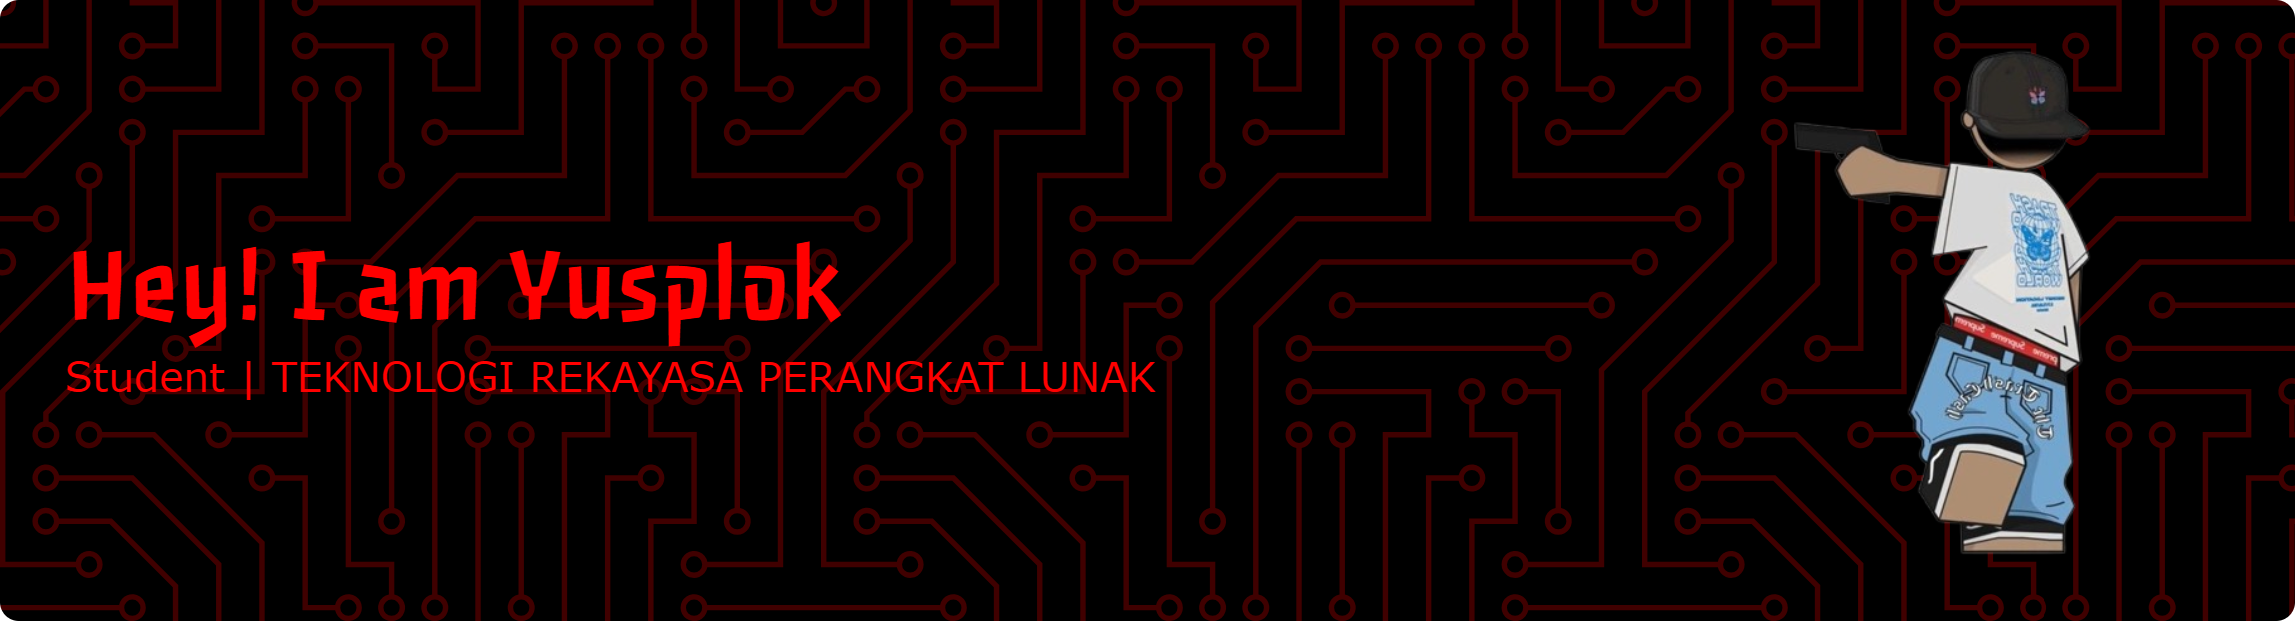
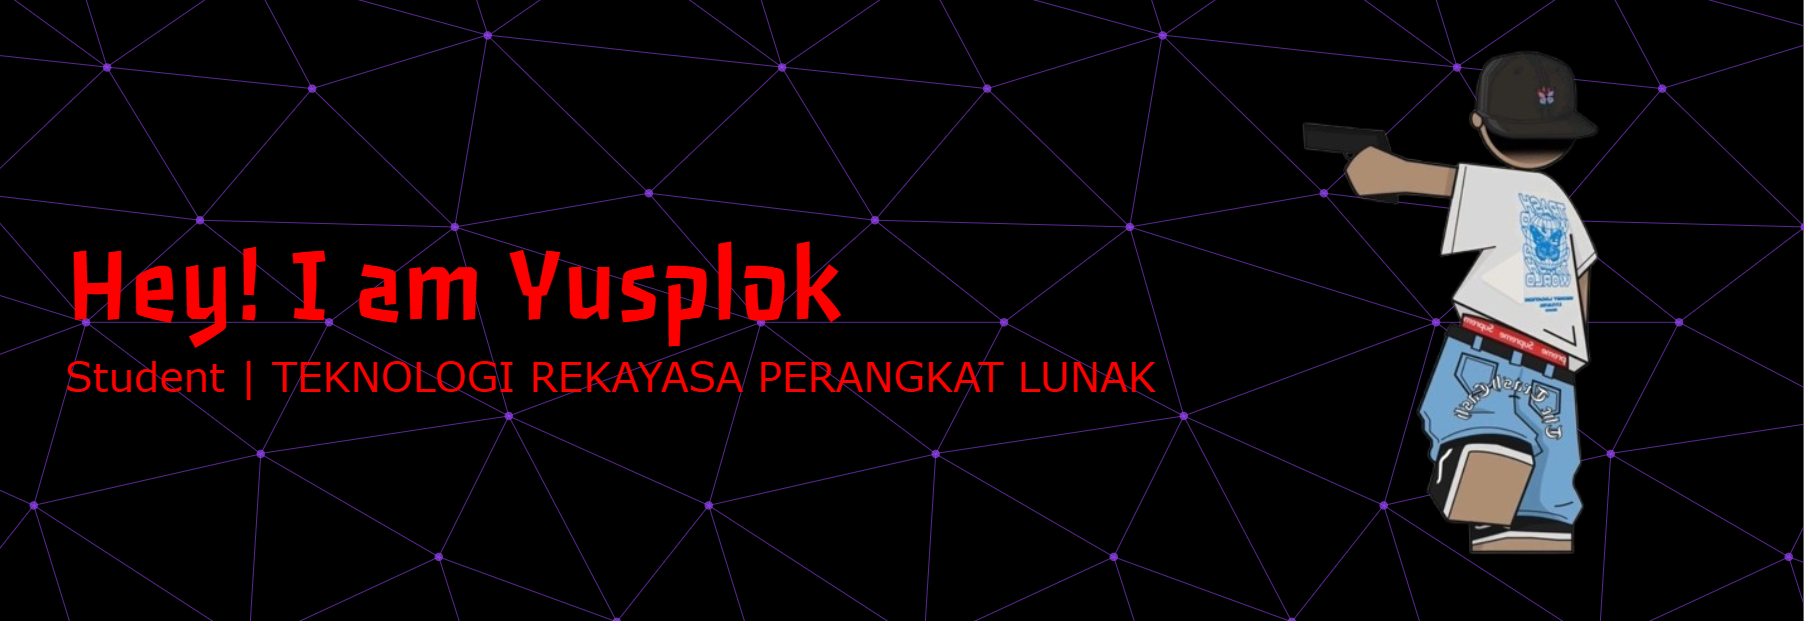
revisi layout

Changed region(s): [[0.0, 0.0, 1.0, 1.0]]

diff --git a/README.md b/README.md
@@ -1,18 +1,26 @@
-![ysplk](github-header-banner.png)
-
 <h1 align="left">Hello World !! 👋</h1>
 
-<p align="left">My name is Yusplk_ and I'm a Student.</p>
+![ysplk](github-header-banner.png)
+
+<div align="center">
+  <img src="https://github-readme-activity-graph.vercel.app/graph?username=ysplk&radius=16&theme=github-dark&area=true&order=5&custom_title=Sibuk%20SIbuk%20SIbuk%20%F0%9F%94%A5&bg_color=000000&hide_border=true&hide_title=false&line=9745f5&area_color=9745f5&point=ffff&color=ffff&title_color=9745f5" height="300" alt="activity-graph graph"  />
+</div>
+
+###
+
+###
+
+<picture>
+  <source media="(prefers-color-scheme: dark)" srcset="https://profile-readme-generator.com/assets/pacman.svg">
+  <source media="(prefers-color-scheme: light)" srcset="https://profile-readme-generator.com/assets/pacman.svg">
+  <img alt="pacman contribution graph" src="https://profile-readme-generator.com/assets/pacman.svg">
+</picture>
+
+###
+
+<h3  align="center">I Code With</h3>
 
 ---
-<p align="left">
-  <!-- Tulis cerita singkat soal lu di sini, mar. Misalnya: -->
-  I'm passionate about web development and exploring new technologies. Currently learning about ...
-</p>
-
----
-
-<h2 align="left">I Code With</h2>
 
 <div align="left">
   <img src="https://cdn.jsdelivr.net/gh/devicons/devicon/icons/cplusplus/cplusplus-original.svg" height="40" alt="cplusplus logo" />
@@ -38,16 +46,18 @@
 
 ---
 
-### My GitHub Activity
-
-<picture>
-  <source media="(prefers-color-scheme: dark)" srcset="https://raw.githubusercontent.com/ysplk/ysplk/output/pacman-contribution-graph-dark.svg">
-  <source media="(prefers-color-scheme: light)" srcset="https://raw.githubusercontent.com/ysplk/ysplk/output/pacman-contribution-graph.svg">
-  <img alt="pacman contribution graph" src="https://raw.githubusercontent.com/ysplk/ysplk/output/pacman-contribution-graph.svg">
-</picture>
+<div align="center">
+  <img src="https://streak-stats.demolab.com?user=ysplk&locale=en&mode=weekly&theme=midnight-purple&hide_border=true&border_radius=5&order=3" height="150" alt="streak graph"  />
+</div>
 
 ###
 
+<h3 align="center">My GitHub Activity<h3>
+
 <img src="https://raw.githubusercontent.com/ysplk/ysplk/output/snake.svg" alt="Snake animation" />
+
+###
+
+<img src="https://raw.githubusercontent.com/ysplk/main/dist/github-contribution-grid-snake-fire.svg" alt="api" >
 
 ###
